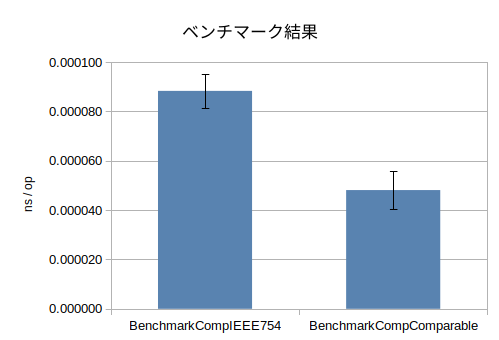
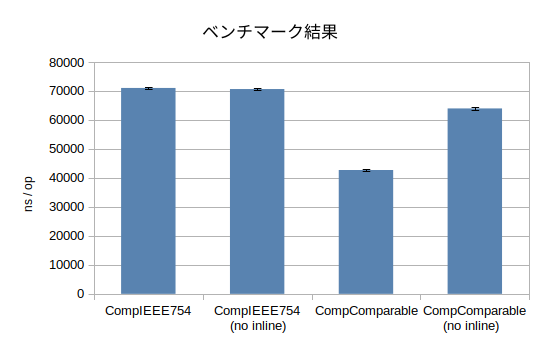
benchmark修正

diff --git a/_posts/2020-12-09-float-comparable.ja.md b/_posts/2020-12-09-float-comparable.ja.md
@@ -94,8 +94,10 @@ func FromComparable(b []byte) float64 {
 
 ### パフォーマンス
 
+(12/9 14時ころ修正：ベンチマークのとり方を勘違いしていました。[おりさのさん](https://twitter.com/orisano/status/1336510567108898818)ありがとうございます）
+
 テストとベンチマークのコードをGo Playgroundに置いておきました。
-https://play.golang.org/p/RllZPvSskv1
+https://play.golang.org/p/j0hUgVfqfCe
 
 変換した値を元に戻せるかと、大小関係を正しく判定できるかのテストを、Playground上で実行できます。
 
@@ -103,44 +105,47 @@ https://play.golang.org/p/RllZPvSskv1
 （実行環境：Kubuntu 20.04、Intel Core i7-6700、go version go1.15.5 linux/amd64）
 
 ```bash
-makki@home:~/test/compfloat$ go test -bench=. -count=10
+makki@home:~/test/compfloat$ go test -bench=. -count=5
 goos: linux
 goarch: amd64
 pkg: main/compfloat
-BenchmarkCompIEEE754-8          1000000000               0.000076 ns/op
-BenchmarkCompIEEE754-8          1000000000               0.000087 ns/op
-BenchmarkCompIEEE754-8          1000000000               0.000095 ns/op
-BenchmarkCompIEEE754-8          1000000000               0.000096 ns/op
-BenchmarkCompIEEE754-8          1000000000               0.000083 ns/op
-BenchmarkCompIEEE754-8          1000000000               0.000088 ns/op
-BenchmarkCompIEEE754-8          1000000000               0.000095 ns/op
-BenchmarkCompIEEE754-8          1000000000               0.000086 ns/op
-BenchmarkCompIEEE754-8          1000000000               0.000095 ns/op
-BenchmarkCompIEEE754-8          1000000000               0.000082 ns/op
-BenchmarkCompComparable-8       1000000000               0.000053 ns/op
-BenchmarkCompComparable-8       1000000000               0.000068 ns/op
-BenchmarkCompComparable-8       1000000000               0.000045 ns/op
-BenchmarkCompComparable-8       1000000000               0.000043 ns/op
-BenchmarkCompComparable-8       1000000000               0.000051 ns/op
-BenchmarkCompComparable-8       1000000000               0.000046 ns/op
-BenchmarkCompComparable-8       1000000000               0.000046 ns/op
-BenchmarkCompComparable-8       1000000000               0.000043 ns/op
-BenchmarkCompComparable-8       1000000000               0.000043 ns/op
-BenchmarkCompComparable-8       1000000000               0.000043 ns/op
+BenchmarkCompIEEE754-8                     16392             70919 ns/op
+BenchmarkCompIEEE754-8                     16657             71587 ns/op
+BenchmarkCompIEEE754-8                     16716             70880 ns/op
+BenchmarkCompIEEE754-8                     16734             70683 ns/op
+BenchmarkCompIEEE754-8                     16660             71165 ns/op
+BenchmarkNoInlineIEEE754-8                 17214             70974 ns/op
+BenchmarkNoInlineIEEE754-8                 17289             71064 ns/op
+BenchmarkNoInlineIEEE754-8                 17312             70658 ns/op
+BenchmarkNoInlineIEEE754-8                 17163             70416 ns/op
+BenchmarkNoInlineIEEE754-8                 17072             70185 ns/op
+BenchmarkCompComparable-8                  26832             42408 ns/op
+BenchmarkCompComparable-8                  28588             43257 ns/op
+BenchmarkCompComparable-8                  28620             42407 ns/op
+BenchmarkCompComparable-8                  26536             42542 ns/op
+BenchmarkCompComparable-8                  28347             43043 ns/op
+BenchmarkNoInlineComparable-8              18874             64007 ns/op
+BenchmarkNoInlineComparable-8              18582             63699 ns/op
+BenchmarkNoInlineComparable-8              18578             63670 ns/op
+BenchmarkNoInlineComparable-8              18460             63858 ns/op
+BenchmarkNoInlineComparable-8              18883             64681 ns/op
 PASS
-ok      main/compfloat  0.084s
+ok      main/compfloat  36.554s
 ```
 
 ![ベンチマーク結果](/images/2020-12-09/benchmark.png)
 
-処理時間がおよそ半分程度になっていることがわかります。
+バイト列のまま比較した`CompComparable`は、内部で`bytes.Compare`を呼ぶだけなのでコンパイル時にインライン展開されるようです。
+その結果、`float64`に戻して比較する`CompIEEE754`にくらべて約6割程度の処理時間になっています。
+またインライン展開を抑制した場合でも、1割程度高速化できています。
+（元の処理が小さいので、関数呼び出しオーバーヘッドの割合が大きいですね。）
 
 ## まとめ
 
 バイト列のまま大小比較可能な浮動小数点数のビット表現を作りました。
 そしてバイト列のままの比較する方が、浮動小数点数にデシリアライズして比較するより高速なことも示しました。
 
-バイト列のままの比較は、Go言語では標準パッケージの[`bytes.Compare`](https://golang.org/pkg/bytes/#Compare)でできます。
+バイト列のままの比較はベンチマークのコードでも示したとおり、Go言語では標準パッケージの[`bytes.Compare`](https://golang.org/pkg/bytes/#Compare)でできます。
 また、浮動小数点数同士だけなく他の整数型同士の場合も、下駄履き表現のビッグエンディアンとすることでバイト列のまま比較できるので、サーバ側でのプロパティ値の比較は、型による分岐が不要なシンプルな実装にすることができます（もちろん型が一致しないと比較はできません）。
 
 以上、大規模なオンライン対戦ゲームを支えるためのちょっとした工夫の紹介でした。
